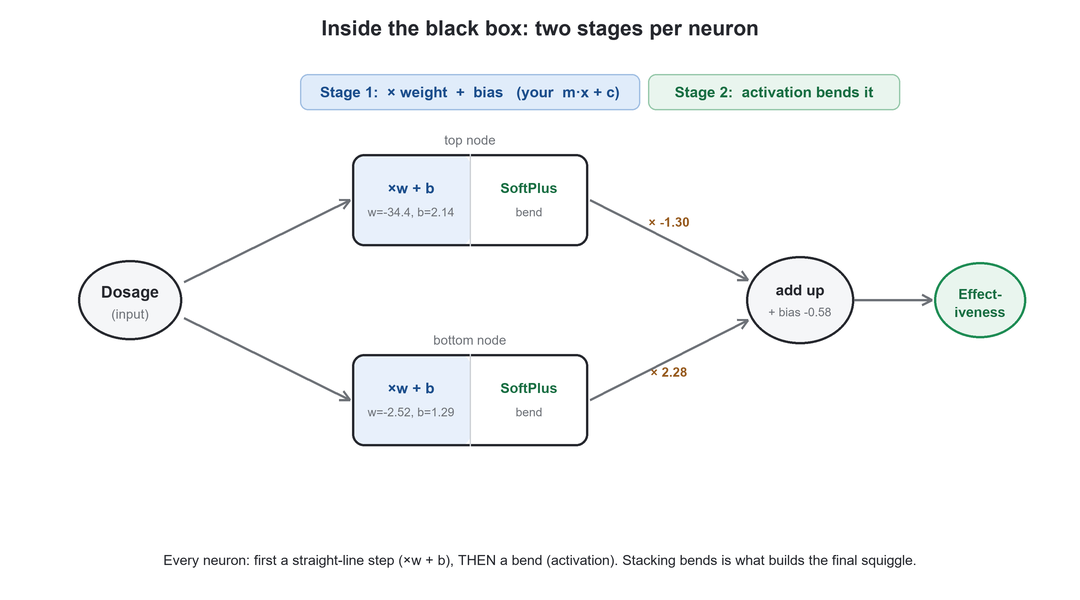
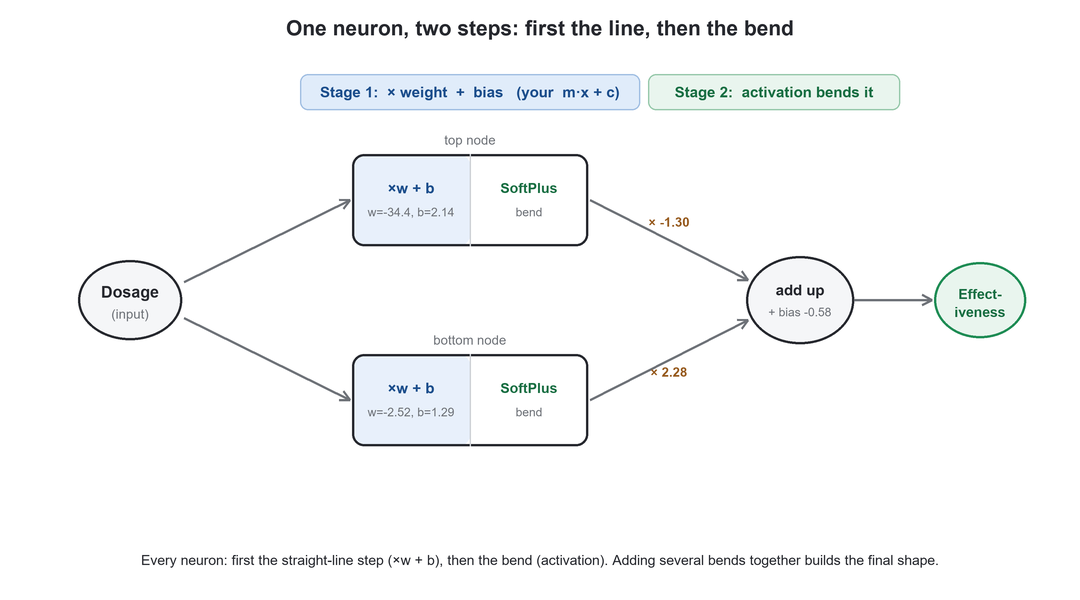
Rewrite neural-network note in plain, standalone language
Explain the concept directly for a beginner instead of narrating a
video: simpler English, everyday framing, no external references.
Renamed to How-Neural-Networks-Work; refreshed the neuron diagram title.

Changed region(s): [[0.1222, 0.9, 0.8556, 0.96], [0.2444, 0.03, 0.7333, 0.06]]

diff --git a/content/AI-and-ML/LLM-Basics/How-Neural-Networks-Work.md b/content/AI-and-ML/LLM-Basics/How-Neural-Networks-Work.md
@@ -1,0 +1,131 @@
+---
+title: "How a Neural Network Works"
+description: A simple, friendly explanation of how a neural network fits a curve to data — and why each neuron does its math in two steps.
+---
+
+Neural networks sound scary. People draw them as a big mess of circles and arrows and say no one can really understand what happens inside. But the main idea is actually simple.
+
+Here is the whole secret in one line: **a neural network takes a few simple curves, bends them, and adds them together until they match your data.** That's it. Everything else is just detail.
+
+Let's build that idea slowly, in plain language.
+
+## 1. Start with the problem
+
+The best way to understand a tool is to first see the problem it solves. So let's take a small, everyday example.
+
+Imagine a medicine. If you take too little, it does nothing. If you take too much, it also does nothing. Only the right amount in the middle actually works.
+
+![[nn-statquest-1-data.png]]
+*A low dose does nothing. A high dose does nothing. Only a medium dose works.*
+
+Look at the shape those dots make. They go up in the middle and down on both sides, like a little hill.
+
+Now try to draw **one straight line** through those dots. (A straight line just means a plain, unbent line, the kind you draw with a ruler.) You can't do it. A straight line always heads in one direction, so it can never make a hill shape. Wherever you put it, it will be wrong somewhere. The red line shows this.
+
+So we need something that can make **curves**, not just straight lines. That single need is the reason neural networks exist.
+
+## 2. The one tool that makes curves
+
+To make curves, a neural network uses a helper called an **activation function**. That is a fancy name for a simple idea: it is just a ready-made curved shape. You put a number in, and it gives a number back in a way that bends.
+
+![[nn-statquest-2-softplus.png]]
+*A ready-made curved shape. It stays flat for a while, then bends upward.*
+
+The blue line above is one common activation function. The only thing you need to notice is that it is **not straight** — it bends. That bend is the important part.
+
+There are a few popular activation functions, with names like SoftPlus, ReLU, and sigmoid. You don't need to memorize them. Just remember one thing about all of them: **they bend.** That bending is the whole trick.
+
+## 3. What one neuron does: two steps, in order
+
+Now let's look closely at a single **neuron**. A neuron is just one small worker inside the network. Each neuron does its job in two steps, and the order matters a lot.
+
+**Step 1 — the straight-line step.**
+The neuron takes your input number and does simple math on it. It **multiplies** the input by a number called a **weight**, and then **adds** another number called a **bias**.
+
+- The **weight** decides how strongly the input counts.
+- The **bias** shifts the answer up or down.
+
+You may remember `y = m·x + c` from school — the formula for a straight line. This step is exactly that. The weight is like `m`, and the bias is like `c`. So step 1 is nothing more than a straight-line calculation.
+
+**Step 2 — the bend.**
+The neuron takes the result from step 1 and passes it through the activation function. This bends the straight-line result into a curve.
+
+So a neuron always does this, in this order:
+
+> **output = bend( input × weight + bias )**
+
+![[nn-statquest-4-network.png]]
+*One neuron: first the straight-line step, then the bend.*
+
+Here are the same school letters next to the words a neural network uses:
+
+| From school (`y = m·x + c`) | In a neural network | What it does |
+|---|---|---|
+| `m` | weight | how strongly the input counts (and how steep the bend is) |
+| `x` | input | the number coming in |
+| `c` | bias | shifts the result, and slides the curve left or right |
+
+## 4. Why do the straight-line math first, and the bend after?
+
+This is the part that confuses most people, so let's go slowly.
+
+The activation function is a **fixed shape**. It always bends the same way, and you cannot change its shape directly. So here is the real question: how does the network make that bend happen in the right place, and at the right steepness, for *your* data?
+
+The answer: it uses the **weight** and the **bias** from step 1 — *before* the bend.
+
+> [!question] The key idea
+> Think of the activation function as a stamp with a curved shape carved into it. The stamp's shape never changes. But before you press it down, you can **slide the paper** left or right, and you can **stretch the paper**. That sliding and stretching is exactly what the weight and bias do. Only after you set them do you press the stamp (the bend).
+
+![[nn-statquest-3-transform.png]]
+*The same curved shape, moved and stretched by the weight and bias before the bend.*
+
+You can see all three effects in the picture above:
+
+- The **bias slides** the curve left or right. It decides *where* the bend happens. (green)
+- The **weight** makes the curve **steeper or gentler**. It decides *how sharp* the bend is. (orange)
+- A **negative weight flips** the curve like a mirror, so the bend can face the other way. (purple)
+
+Now the order makes sense. If you did the bend *first*, on the raw input, the curve would land in one fixed spot and you could never move it to fit your data. By doing the straight-line math first, you get to **place and shape** the curve exactly where you need it.
+
+In one line: **the straight-line step is the steering wheel, and the bend is what it steers.**
+
+And why bend at all? Why not just use straight-line steps? Because if you only add straight lines together, you always get another straight line. Two straight lines added still make a straight line, so no matter how many you stack, you could never make the hill shape. The bend is what breaks that limit and lets the network make real curves. (The proper word for "a shape that can curve" is **nonlinear**, which simply means "not a straight line.")
+
+## 5. Putting the pieces together
+
+One neuron makes one simple curve. That is not enough to make a whole hill. So the network uses a few neurons together and combines their curves.
+
+Here is how the pieces come together:
+
+1. Each neuron makes its own curve (straight-line step, then bend).
+2. Each curve is multiplied by a number, which makes it bigger or smaller (and can flip it).
+3. All the curves are added together.
+4. One last number shifts the whole thing up or down.
+
+![[nn-statquest-5-squiggle.png]]
+*Two simple curves, resized and added together, make the final green curve that fits the dots.*
+
+The thick green line is the final answer. Look at where it goes: low dose → almost nothing, medium dose → high, high dose → almost nothing. It matches the dots. The network has "learned" the hill shape, just by bending and adding simple curves.
+
+## 6. Where do all these numbers come from?
+
+So far we used the right weights and biases as if we already knew them. We don't — not at the start. The network begins with **random** numbers. Then it checks how wrong its curve is, and slowly adjusts every weight and bias to make the curve fit a little better. It repeats this again and again until the curve matches the data.
+
+This slow adjusting is called **training**. You will also hear the names **backpropagation** and **gradient descent** for the method, but the idea behind it is simple: guess, check the mistake, adjust, and repeat.
+
+## 7. Quick recap
+
+- **Neuron** — one small worker inside the network.
+- **Weight** — a number that decides how strongly the input counts (and how steep the bend is).
+- **Bias** — a number that shifts the result and slides the curve left or right.
+- **Straight-line step** (`input × weight + bias`) — the first thing a neuron does; the same as `y = m·x + c`.
+- **Activation function** — a ready-made curved shape that adds a bend.
+- **Nonlinear** — just a word for "not a straight line."
+- **Training** — the slow process of adjusting the numbers until the curve fits.
+
+> [!tip] Remember this one line
+> A neuron first does simple straight-line math to **place and size** the input, then **bends** it with an activation function. The network adds up many small bends to build any shape it needs. The straight-line step comes first because it is the steering wheel; the bend is what it steers.
+
+## Related
+
+- [[What-Is-Attention|What Is Attention]] — a good next step, once single neurons make sense.
